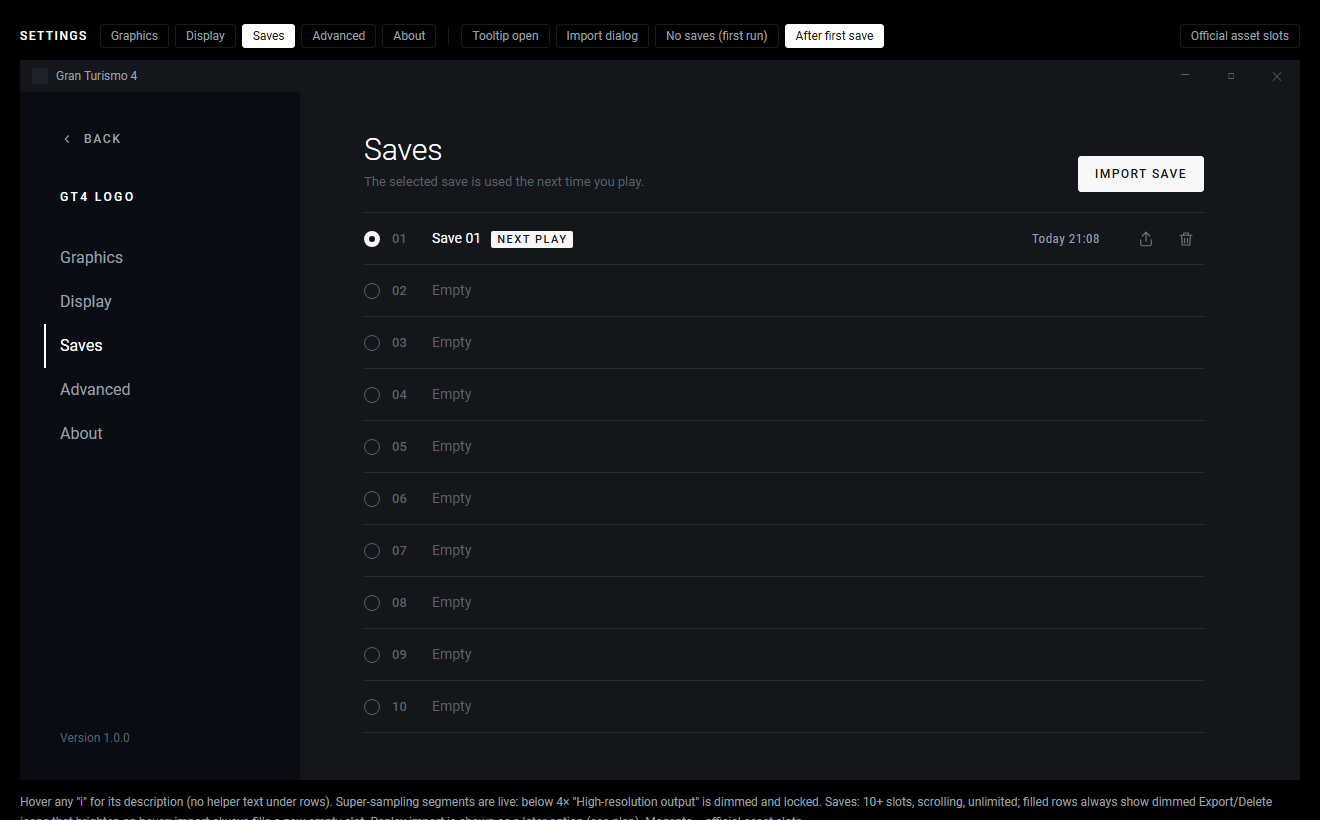
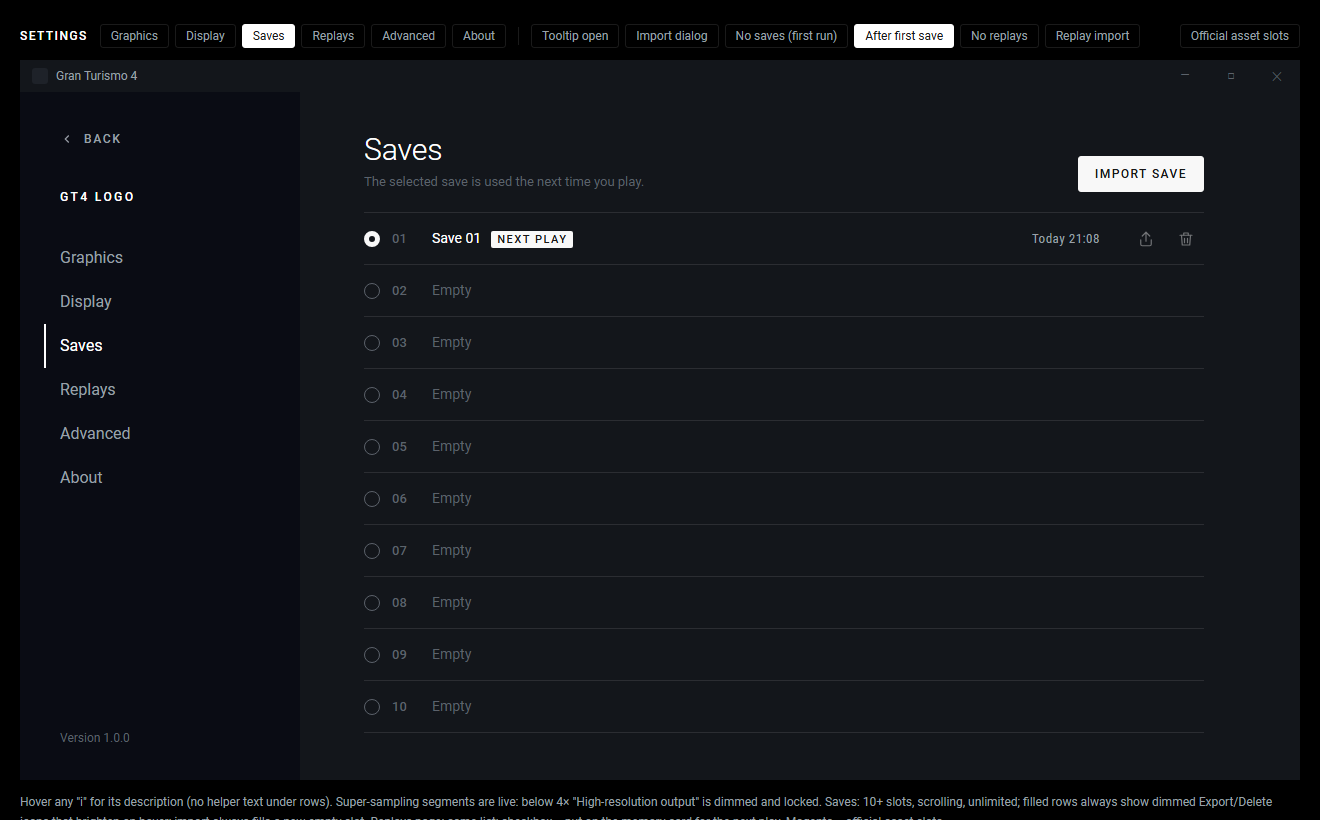
docs: launcher rounds 5-6 - replays page, folder memcard model built into a card image

diff --git a/docs/launcher/mockup-settings.html b/docs/launcher/mockup-settings.html
@@ -20,8 +20,8 @@ body{background:#000;color:var(--silver);font:14px/20px var(--text);min-height:1
 .controls i{width:1px;height:18px;background:var(--hair);margin:0 6px}
 .controls label{cursor:pointer;padding:4px 10px;border:1px solid var(--hair);border-radius:3px}
 input.st{position:absolute;opacity:0;pointer-events:none}
-#p-gfx:checked ~ .controls [for=p-gfx],#p-dsp:checked ~ .controls [for=p-dsp],#p-sav:checked ~ .controls [for=p-sav],#p-adv:checked ~ .controls [for=p-adv],
-#tip:checked ~ .controls [for=tip],#imp:checked ~ .controls [for=imp],#empty:checked ~ .controls [for=empty],#first:checked ~ .controls [for=first],#slots:checked ~ .controls [for=slots]{background:var(--white);color:var(--paper-ink);border-color:var(--white)}
+#p-gfx:checked ~ .controls [for=p-gfx],#p-dsp:checked ~ .controls [for=p-dsp],#p-sav:checked ~ .controls [for=p-sav],#p-rep:checked ~ .controls [for=p-rep],#p-adv:checked ~ .controls [for=p-adv],
+#tip:checked ~ .controls [for=tip],#imp:checked ~ .controls [for=imp],#empty:checked ~ .controls [for=empty],#first:checked ~ .controls [for=first],#rimp:checked ~ .controls [for=rimp],#rempty:checked ~ .controls [for=rempty],#slots:checked ~ .controls [for=slots]{background:var(--white);color:var(--paper-ink);border-color:var(--white)}
 .viewport{width:100%;overflow-x:auto;display:flex;justify-content:center}
 .frame{position:relative;width:1280px;height:720px;flex:none;background:var(--carbon);overflow:hidden;display:grid;grid-template-columns:280px 1fr;grid-template-rows:32px 1fr}
 
@@ -33,12 +33,12 @@ nav{background:var(--ink);padding:40px 0 32px 40px;display:flex;flex-direction:c
 .back{display:flex;align-items:center;gap:10px;color:var(--dim);font:500 12px var(--label);letter-spacing:.14em;text-transform:uppercase;margin-bottom:40px;text-decoration:none}
 .logo{width:150px;height:22px;font:500 12px var(--label);letter-spacing:.2em;text-transform:uppercase;color:var(--white);margin-bottom:28px;display:flex;align-items:center}
 nav label{display:block;cursor:pointer;font:400 16px/44px var(--text);color:var(--dim);border-left:2px solid transparent;padding-left:14px;margin-left:-16px}
-#p-gfx:checked ~ .viewport nav [for=p-gfx],#p-dsp:checked ~ .viewport nav [for=p-dsp],#p-sav:checked ~ .viewport nav [for=p-sav],#p-adv:checked ~ .viewport nav [for=p-adv],#p-abt:checked ~ .viewport nav [for=p-abt]{color:var(--white);border-left-color:var(--white)}
+#p-gfx:checked ~ .viewport nav [for=p-gfx],#p-dsp:checked ~ .viewport nav [for=p-dsp],#p-sav:checked ~ .viewport nav [for=p-sav],#p-rep:checked ~ .viewport nav [for=p-rep],#p-adv:checked ~ .viewport nav [for=p-adv],#p-abt:checked ~ .viewport nav [for=p-abt]{color:var(--white);border-left-color:var(--white)}
 nav .ver{margin-top:auto;font-size:12px;color:var(--faint)}
 
 main{padding:40px 96px 32px 64px;position:relative}
 .page{display:none}
-#p-gfx:checked ~ .viewport .pg-gfx,#p-dsp:checked ~ .viewport .pg-dsp,#p-sav:checked ~ .viewport .pg-sav,#p-adv:checked ~ .viewport .pg-adv,#p-abt:checked ~ .viewport .pg-abt{display:block}
+#p-gfx:checked ~ .viewport .pg-gfx,#p-dsp:checked ~ .viewport .pg-dsp,#p-sav:checked ~ .viewport .pg-sav,#p-rep:checked ~ .viewport .pg-rep,#p-adv:checked ~ .viewport .pg-adv,#p-abt:checked ~ .viewport .pg-abt{display:block}
 .head{display:flex;align-items:flex-end;justify-content:space-between}
 h1{font:300 30px/36px var(--text);color:var(--white)}
 .note{font-size:13px;color:var(--faint);margin:4px 0 20px}
@@ -104,7 +104,17 @@ h2{font:500 11px var(--label);letter-spacing:.18em;text-transform:uppercase;colo
 
 /* import dialog */
 .scrim{display:none;position:absolute;inset:0;background:rgba(5,6,10,.72);z-index:30;align-items:center;justify-content:center}
-#imp:checked ~ .viewport .scrim{display:flex}
+#imp:checked ~ .viewport .scrim.save-imp{display:flex}
+#rimp:checked ~ .viewport .scrim.rep-imp{display:flex}
+.slot-row .check{width:16px;height:16px;border-radius:2px;border:1.5px solid var(--faint);position:relative}
+.slot-row .check.on{background:var(--paper);border-color:var(--paper)}
+.slot-row .check.on::after{content:"";position:absolute;left:4px;top:0;width:5px;height:9px;border:solid var(--paper-ink);border-width:0 2px 2px 0;transform:rotate(45deg)}
+.space{font:400 12px var(--label);letter-spacing:.04em;color:var(--dim);margin-top:6px}
+.rep-list{margin-top:20px;border-top:1px solid var(--hair);height:510px;overflow-y:scroll;scrollbar-width:thin;scrollbar-color:var(--faint) transparent}
+.rep-empty{display:none;height:480px;flex-direction:column;align-items:center;justify-content:center;gap:12px;color:var(--dim);text-align:center}
+.rep-empty h3{font:300 24px var(--text);color:var(--white)}
+#rempty:checked ~ .viewport .rep-list,#rempty:checked ~ .viewport .space{display:none}
+#rempty:checked ~ .viewport .rep-empty{display:flex}
 .dialog{width:600px;background:var(--carbon);border:1px solid var(--hair);border-radius:3px;padding:28px 32px 24px}
 .dialog h3{font:300 24px/30px var(--text);color:var(--white)}
 .dialog .src{font-size:13px;color:var(--dim);margin:4px 0 18px}
@@ -135,6 +145,7 @@ h2{font:500 11px var(--label);letter-spacing:.18em;text-transform:uppercase;colo
 <input class="st" type="radio" name="p" id="p-gfx" checked>
 <input class="st" type="radio" name="p" id="p-dsp">
 <input class="st" type="radio" name="p" id="p-sav">
+<input class="st" type="radio" name="p" id="p-rep">
 <input class="st" type="radio" name="p" id="p-adv">
 <input class="st" type="radio" name="p" id="p-abt">
 <input class="st" type="radio" name="ss" id="ss1">
@@ -146,10 +157,12 @@ h2{font:500 11px var(--label);letter-spacing:.18em;text-transform:uppercase;colo
 <input class="st" type="checkbox" id="imp">
 <input class="st" type="checkbox" id="empty">
 <input class="st" type="checkbox" id="first">
+<input class="st" type="checkbox" id="rimp">
+<input class="st" type="checkbox" id="rempty">
 <input class="st" type="checkbox" id="slots">
 <div class="controls"><b>Settings</b>
-  <label for="p-gfx">Graphics</label><label for="p-dsp">Display</label><label for="p-sav">Saves</label><label for="p-adv">Advanced</label><label for="p-abt">About</label>
-  <i></i><label for="tip">Tooltip open</label><label for="imp">Import dialog</label><label for="empty">No saves (first run)</label><label for="first">After first save</label>
+  <label for="p-gfx">Graphics</label><label for="p-dsp">Display</label><label for="p-sav">Saves</label><label for="p-rep">Replays</label><label for="p-adv">Advanced</label><label for="p-abt">About</label>
+  <i></i><label for="tip">Tooltip open</label><label for="imp">Import dialog</label><label for="empty">No saves (first run)</label><label for="first">After first save</label><label for="rempty">No replays</label><label for="rimp">Replay import</label>
   <span style="flex:1"></span><label for="slots">Official asset slots</label></div>
 
 <div class="viewport"><div class="frame">
@@ -161,6 +174,7 @@ h2{font:500 11px var(--label);letter-spacing:.18em;text-transform:uppercase;colo
     <label for="p-gfx">Graphics</label>
     <label for="p-dsp">Display</label>
     <label for="p-sav">Saves</label>
+    <label for="p-rep">Replays</label>
     <label for="p-adv">Advanced</label>
     <label for="p-abt">About</label>
     <div class="ver">Version 1.0.0</div>
@@ -229,6 +243,26 @@ h2{font:500 11px var(--label);letter-spacing:.18em;text-transform:uppercase;colo
       <div class="emptystate"><h3>No saves yet</h3><p>Your first save appears here after you save in the game.</p></div>
     </section>
 
+    <!-- REPLAYS -->
+    <section class="page pg-rep">
+      <div class="head"><div><h1>Replays</h1><p class="note" style="margin-bottom:0">All replays are kept. Checked ones go on the game's memory card.</p></div><button class="btn primary">Import replay</button></div>
+      <p class="space">Memory card space: 3.1 of 6.6 MB used by replays</p>
+      <div class="rep-list">
+        <div class="slot-row"><span class="check on"></span><span class="no">01</span><span class="nm">Replay 01<small>On card</small></span><span class="date">Today 21:40</span><span class="acts"><button class="iconbtn" title="Export" aria-label="Export"><svg width="18" height="18" viewBox="0 0 24 24" fill="none" stroke="currentColor" stroke-width="1.6" stroke-linecap="round" stroke-linejoin="round"><path d="M12 15V3"/><path d="M7 8l5-5 5 5"/><path d="M5 13v6a2 2 0 0 0 2 2h10a2 2 0 0 0 2-2v-6"/></svg></button><button class="iconbtn del" title="Delete" aria-label="Delete"><svg width="18" height="18" viewBox="0 0 24 24" fill="none" stroke="currentColor" stroke-width="1.6" stroke-linecap="round" stroke-linejoin="round"><path d="M4 7h16"/><path d="M9 7V4h6v3"/><path d="M6 7l1 13h10l1-13"/><path d="M10 11v6M14 11v6"/></svg></button></span></div>
+        <div class="slot-row"><span class="check on"></span><span class="no">02</span><span class="nm">Replay 02<small>On card</small></span><span class="date">Today 20:55</span><span class="acts"><button class="iconbtn" title="Export" aria-label="Export"><svg width="18" height="18" viewBox="0 0 24 24" fill="none" stroke="currentColor" stroke-width="1.6" stroke-linecap="round" stroke-linejoin="round"><path d="M12 15V3"/><path d="M7 8l5-5 5 5"/><path d="M5 13v6a2 2 0 0 0 2 2h10a2 2 0 0 0 2-2v-6"/></svg></button><button class="iconbtn del" title="Delete" aria-label="Delete"><svg width="18" height="18" viewBox="0 0 24 24" fill="none" stroke="currentColor" stroke-width="1.6" stroke-linecap="round" stroke-linejoin="round"><path d="M4 7h16"/><path d="M9 7V4h6v3"/><path d="M6 7l1 13h10l1-13"/><path d="M10 11v6M14 11v6"/></svg></button></span></div>
+        <div class="slot-row"><span class="check on"></span><span class="no">03</span><span class="nm">Replay 03<small>On card</small></span><span class="date">12 Oct 2026 22:31</span><span class="acts"><button class="iconbtn hot" title="Export" aria-label="Export"><svg width="18" height="18" viewBox="0 0 24 24" fill="none" stroke="currentColor" stroke-width="1.6" stroke-linecap="round" stroke-linejoin="round"><path d="M12 15V3"/><path d="M7 8l5-5 5 5"/><path d="M5 13v6a2 2 0 0 0 2 2h10a2 2 0 0 0 2-2v-6"/></svg></button><button class="iconbtn del" title="Delete" aria-label="Delete"><svg width="18" height="18" viewBox="0 0 24 24" fill="none" stroke="currentColor" stroke-width="1.6" stroke-linecap="round" stroke-linejoin="round"><path d="M4 7h16"/><path d="M9 7V4h6v3"/><path d="M6 7l1 13h10l1-13"/><path d="M10 11v6M14 11v6"/></svg></button></span></div>
+        <div class="slot-row"><span class="check"></span><span class="no">04</span><span class="nm">Replay 04</span><span class="date">10 Oct 2026 19:12</span><span class="acts"><button class="iconbtn" title="Export" aria-label="Export"><svg width="18" height="18" viewBox="0 0 24 24" fill="none" stroke="currentColor" stroke-width="1.6" stroke-linecap="round" stroke-linejoin="round"><path d="M12 15V3"/><path d="M7 8l5-5 5 5"/><path d="M5 13v6a2 2 0 0 0 2 2h10a2 2 0 0 0 2-2v-6"/></svg></button><button class="iconbtn del" title="Delete" aria-label="Delete"><svg width="18" height="18" viewBox="0 0 24 24" fill="none" stroke="currentColor" stroke-width="1.6" stroke-linecap="round" stroke-linejoin="round"><path d="M4 7h16"/><path d="M9 7V4h6v3"/><path d="M6 7l1 13h10l1-13"/><path d="M10 11v6M14 11v6"/></svg></button></span></div>
+        <div class="slot-row"><span class="check"></span><span class="no">05</span><span class="nm">Replay 05</span><span class="date">3 Sep 2026 18:20</span><span class="acts"><button class="iconbtn" title="Export" aria-label="Export"><svg width="18" height="18" viewBox="0 0 24 24" fill="none" stroke="currentColor" stroke-width="1.6" stroke-linecap="round" stroke-linejoin="round"><path d="M12 15V3"/><path d="M7 8l5-5 5 5"/><path d="M5 13v6a2 2 0 0 0 2 2h10a2 2 0 0 0 2-2v-6"/></svg></button><button class="iconbtn del" title="Delete" aria-label="Delete"><svg width="18" height="18" viewBox="0 0 24 24" fill="none" stroke="currentColor" stroke-width="1.6" stroke-linecap="round" stroke-linejoin="round"><path d="M4 7h16"/><path d="M9 7V4h6v3"/><path d="M6 7l1 13h10l1-13"/><path d="M10 11v6M14 11v6"/></svg></button></span></div>
+        <div class="slot-row"><span class="check"></span><span class="no">06</span><span class="nm">Replay 06</span><span class="date">28 Aug 2026 15:05</span><span class="acts"><button class="iconbtn" title="Export" aria-label="Export"><svg width="18" height="18" viewBox="0 0 24 24" fill="none" stroke="currentColor" stroke-width="1.6" stroke-linecap="round" stroke-linejoin="round"><path d="M12 15V3"/><path d="M7 8l5-5 5 5"/><path d="M5 13v6a2 2 0 0 0 2 2h10a2 2 0 0 0 2-2v-6"/></svg></button><button class="iconbtn del" title="Delete" aria-label="Delete"><svg width="18" height="18" viewBox="0 0 24 24" fill="none" stroke="currentColor" stroke-width="1.6" stroke-linecap="round" stroke-linejoin="round"><path d="M4 7h16"/><path d="M9 7V4h6v3"/><path d="M6 7l1 13h10l1-13"/><path d="M10 11v6M14 11v6"/></svg></button></span></div>
+        <div class="slot-row empty"><span class="check" style="opacity:.4"></span><span class="no">07</span><span class="nm">Empty</span><span class="date"></span><span class="acts"></span></div>
+        <div class="slot-row empty"><span class="check" style="opacity:.4"></span><span class="no">08</span><span class="nm">Empty</span><span class="date"></span><span class="acts"></span></div>
+        <div class="slot-row empty"><span class="check" style="opacity:.4"></span><span class="no">09</span><span class="nm">Empty</span><span class="date"></span><span class="acts"></span></div>
+        <div class="slot-row empty"><span class="check" style="opacity:.4"></span><span class="no">10</span><span class="nm">Empty</span><span class="date"></span><span class="acts"></span></div>
+        <div class="slot-row empty"><span class="check" style="opacity:.4"></span><span class="no">11</span><span class="nm">Empty</span><span class="date"></span><span class="acts"></span></div>
+      </div>
+      <div class="rep-empty"><h3>No replays yet</h3><p>Replays you save in the game appear here.</p></div>
+    </section>
+
     <!-- ADVANCED -->
     <section class="page pg-adv">
       <h1>Advanced</h1>
@@ -261,18 +295,28 @@ h2{font:500 11px var(--label);letter-spacing:.18em;text-transform:uppercase;colo
     </section>
 
     <!-- IMPORT DIALOG -->
-    <div class="scrim"><div class="dialog">
+    <div class="scrim save-imp"><div class="dialog">
       <h3>Import from memory card</h3>
       <p class="src">Mcd001.ps2 · 8 MB memory card image</p>
       <div class="pick">
         <div class="it"><span class="cb on"></span><span class="t">Gran Turismo 4 · Game data<small>Saved 14 Oct 2026 21:40</small></span><span class="sz">1.5 MB</span></div>
-        <div class="it"><span class="cb"></span><span class="t">Gran Turismo 4 · Replay<small>Saved 14 Oct 2026 21:52</small></span><span class="sz">410 KB</span></div>
+        <div class="it off"><span class="cb"></span><span class="t">Gran Turismo 4 · Replay<small>Import it from Replays</small></span><span class="sz">410 KB</span></div>
         <div class="it off"><span class="cb"></span><span class="t">Other game<small>Not a Gran Turismo 4 save</small></span><span class="sz">220 KB</span></div>
       </div>
       <div class="foot"><span>Goes into a new slot (06).</span><button class="btn">Cancel</button><button class="btn primary">Import</button></div>
     </div></div>
+    <div class="scrim rep-imp"><div class="dialog">
+      <h3>Import replays</h3>
+      <p class="src">Mcd001.ps2 · 8 MB memory card image</p>
+      <div class="pick">
+        <div class="it"><span class="cb on"></span><span class="t">Gran Turismo 4 · Replay<small>Saved 14 Oct 2026 21:52</small></span><span class="sz">—</span></div>
+        <div class="it"><span class="cb on"></span><span class="t">Gran Turismo 4 · Best lap replay<small>Saved 13 Oct 2026 23:10</small></span><span class="sz">—</span></div>
+        <div class="it off"><span class="cb"></span><span class="t">Gran Turismo 4 · Game data<small>Import it from Saves</small></span><span class="sz">1.5 MB</span></div>
+      </div>
+      <div class="foot"><span>Adds 2 new replays (07, 08).</span><button class="btn">Cancel</button><button class="btn primary">Import</button></div>
+    </div></div>
   </main>
 </div></div>
-<div class="legend">Hover any "i" for its description (no helper text under rows). Super-sampling segments are live: below 4× "High-resolution output" is dimmed and locked. Saves: 10+ slots, scrolling, unlimited; filled rows always show dimmed Export/Delete icons that brighten on hover; import always fills a new empty slot. Replay import is shown as a later option (see plan). Magenta = official asset slots.</div>
+<div class="legend">Hover any "i" for its description (no helper text under rows). Super-sampling segments are live: below 4× "High-resolution output" is dimmed and locked. Saves: 10+ slots, scrolling, unlimited; filled rows always show dimmed Export/Delete icons that brighten on hover; import always fills a new empty slot. Replays page: same list; checkbox = put on the memory card for the next play. Magenta = official asset slots.</div>
 </body>
 </html>
